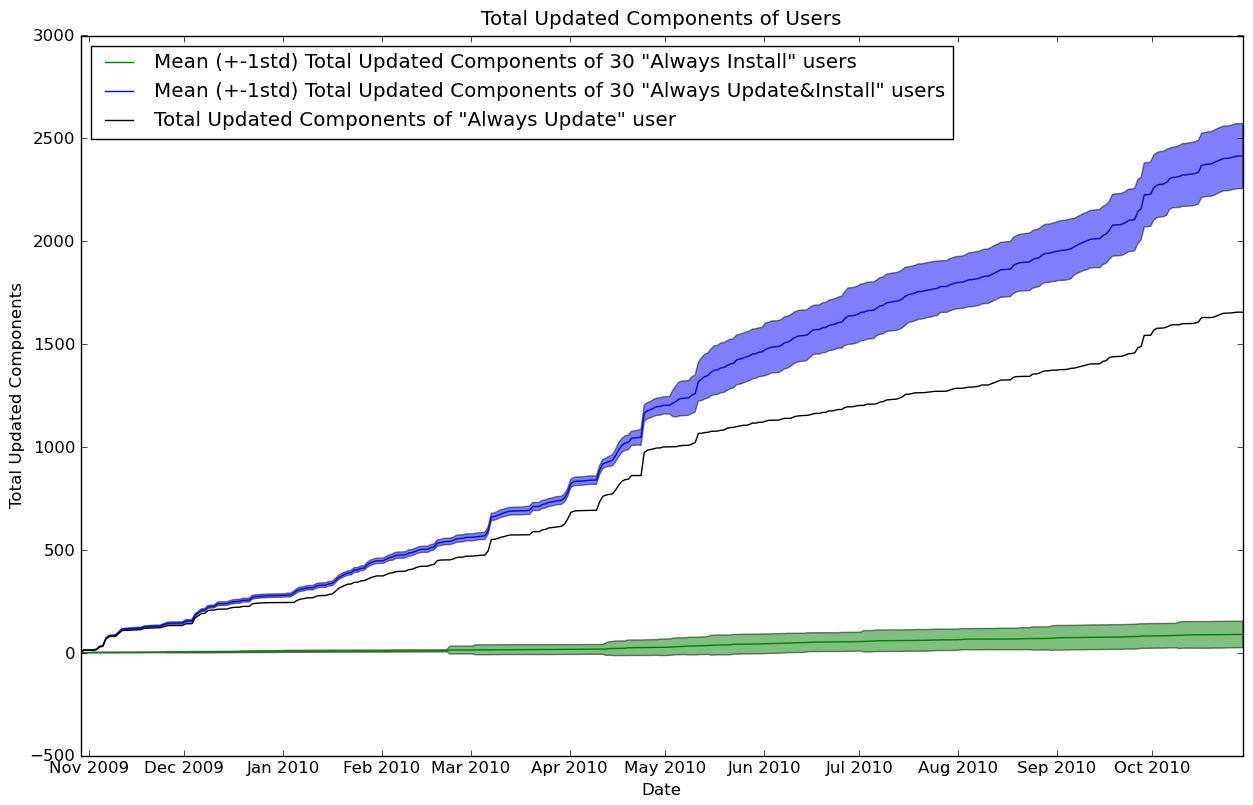
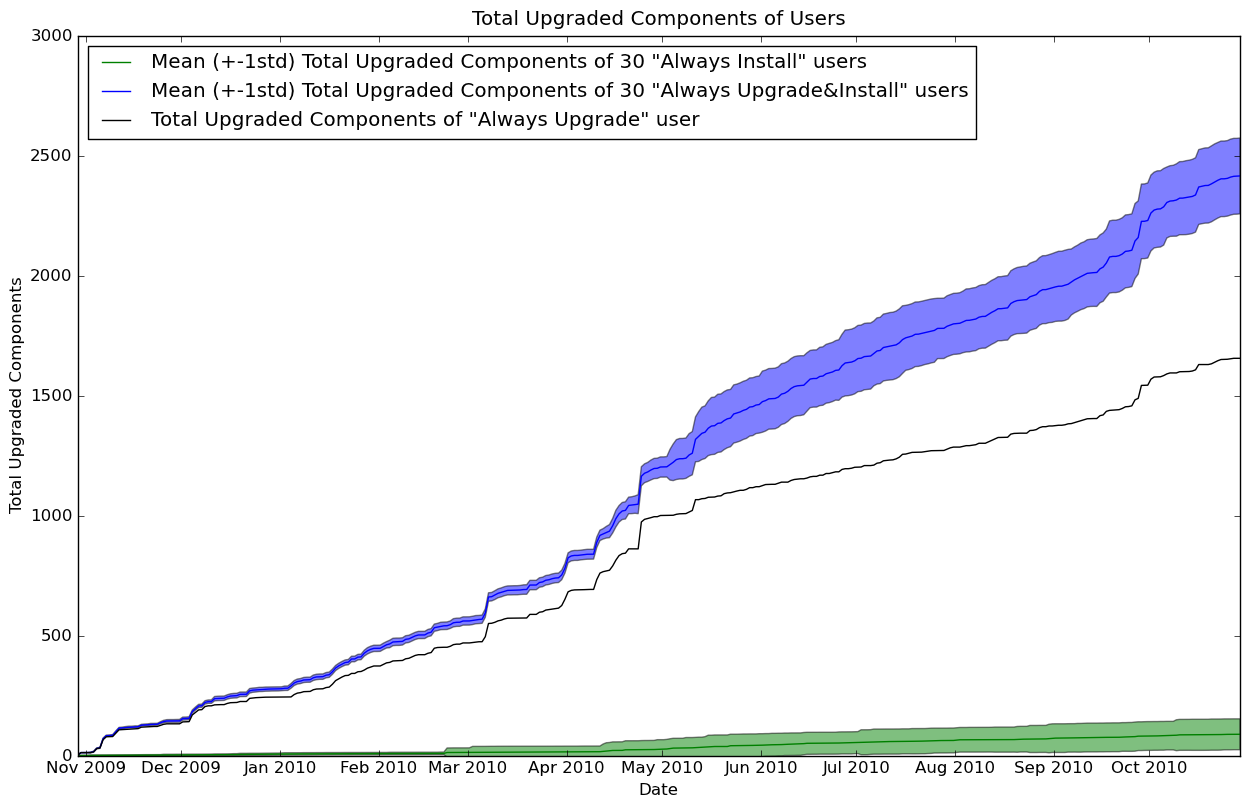
some new stuff

diff --git a/UbuntuSimulationAnalysis/aq6.py b/UbuntuSimulationAnalysis/aq6.py
@@ -32,14 +32,24 @@ phu = filter(lambda x : os.path.basename(x).startswith("progressivehighupdate"),
 plc = filter(lambda x : os.path.basename(x).startswith("progressivelowchange"),files);
 pmc = filter(lambda x : os.path.basename(x).startswith("progressivemediumchange"),files);
 
-norms = [("HI", hi, "#FF0000"), 		("HU", hu, "#00FF00"), 			("MC", mc, "#0000FF"), 			("LC", lc, "#FF00FF")]
-cons = [("Con. Upgrade HI", chi, "#FF0000"), 	("Con. Upgrade HU", chu, "#00FF00"), 	("Con. Upgrade MC", cmc, "#0000FF"), 	("Con. Upgrade LC", clc, "#FF00FF")]
-pros = [("Pro. Upgrade HI", phi, "#FF0000"), 	("Pro. Upgrade HU", phu, "#00FF00"), 	("Pro. Upgrade MC", pmc, "#0000FF"), 	("Pro. Upgrade LC", plc, "#FF00FF")]
+norms = [("HI", hi, "#FF0000"), 			("MC", mc, "#0000FF"), 			("HU", hu, "#00FF00"), 			("LC", lc, "#FF00FF")]
+cons = [("Con. Upgrade HI", chi, "#FF0000"), 		("Con. Upgrade MC", cmc, "#0000FF"), 	("Con. Upgrade HU", chu, "#00FF00"), 	("Con. Upgrade LC", clc, "#FF00FF")]
+pros = [("Pro. Upgrade HI", phi, "#FF0000"), 		("Pro. Upgrade MC", pmc, "#0000FF"),	("Pro. Upgrade HU", phu, "#00FF00"),  	("Pro. Upgrade LC", plc, "#FF00FF")]
 
 his = [("Upgrade HI", hi, "#FF0000"),("Con. Upgrade HI", chi, "#00FF00"),("Pro. Upgrade HI", phi, "#0000FF")]
 hus = [("Upgrade HU", hu, "#FF0000"),("Con. Upgrade HU", chu, "#00FF00"),("Pro. Upgrade HU", phu, "#0000FF")]
 mcs = [("Upgrade MC", mc, "#FF0000"),("Con. Upgrade MC", cmc, "#00FF00"),("Pro. Upgrade MC", pmc, "#0000FF")]
 lcs = [("Upgrade LC", lc, "#FF0000"),("Con. Upgrade LC", clc, "#00FF00"),("Pro. Upgrade LC", plc, "#0000FF")]
+
+
+# High install 	0.42159     0.7638915 
+# Medium change 0.22202257  0.25948714
+# High update 	0.5610895   0.1918915 
+# Low change  	0.18629183  0.08623483
+
+
+
+
 
 def plotuttdpc():
 	pylab.figure(1)
@@ -55,7 +65,7 @@ def plotuttdpc():
 		ivals = map(lambda x : uttdperc(x),pf)
 		imean,istd,imeanpstd,imeanmstd = multimeanstd(ivals)
 		mdiff = numpy.mean(imean)
-		print "Mean uttdpc",name,mdiff
+		print "%s, mean uttdpc %f, final val %f" % (name,mdiff,imean[-1])
 		pylab.plot(pallthedays,imean,color=c,label=("Mean (+-1std) UTTDpC of 50 \"%s\" users" % name))
 
 	pylab.legend(loc="upper left")
@@ -73,7 +83,7 @@ def plotuttdpc():
 		ivals = map(lambda x : uttdperc(x),pf)
 		imean,istd,imeanpstd,imeanmstd = multimeanstd(ivals)
 		mdiff = numpy.mean(imean)
-		print "Mean uttdpc",name,mdiff
+		print "%s, mean uttdpc %f, final val %f" % (name,mdiff,imean[-1])
 		pylab.plot(pallthedays,imean,color=c,label=("Mean (+-1std) UTTDpC of 50 \"%s\" users" % name))
 
 	pylab.legend(loc="upper left")
@@ -92,7 +102,7 @@ def plotuttdpc():
 		ivals = map(lambda x : uttdperc(x),pf)
 		imean,istd,imeanpstd,imeanmstd = multimeanstd(ivals)
 		mdiff = numpy.mean(imean)
-		print "Mean uttdpc",name,mdiff
+		print "%s, mean uttdpc %f, final val %f" % (name,mdiff,imean[-1])
 		pylab.plot(pallthedays,imean,color=c,label=("Mean (+-1std) UTTDpC of 50 \"%s\" users" % name))
 
 	pylab.legend(loc="upper left")
@@ -184,6 +194,7 @@ def plotuttdpc():
 		imean,istd,imeanpstd,imeanmstd = multimeanstd(ivals)
 		mdiff = numpy.mean(imean)
 		print "Mean uttdpc",name,mdiff
+
 		pylab.plot(pallthedays,imean,color=c,label=("Mean (+-1std) UTTDpC of 50 \"%s\" users" % name))
 
 	pylab.legend(loc="upper left")
@@ -208,7 +219,7 @@ def plotchange():
 		imean,istd,imeanpstd,imeanmstd = multimeanstd(ivals)
 		mdiff = numpy.mean(imean)
 		print "Mean Change",name,mdiff
-		print "Final Change, %s (mean : %d , std %d)  7days (mean : %d , std %d)" % (name, imean[-1],istd[-1], imean[-7],istd[-7])
+		print "Final Change, %s (mean : %f , std %f)  7days (mean : %f , std %f)" % (name, imean[-1],istd[-1], imean[-7],istd[-7])
 		pylab.plot(pallthedays,imean,color=c,label=("Mean (+-1std) Total Change of 50 \"%s\" users" % name))
 	
 	#Final Change, HI (mean : 3176 , std 196)  7days (mean : 3136 , std 186)
@@ -221,6 +232,26 @@ def plotchange():
 	#Final Change, Con. Upgrade MC (mean : 2267 , std 153)  7days (mean : 2231 , std 149)
 	#Final Change, Con. Upgrade LC (mean : 1822 , std 96)  7days (mean : 1797 , std 98)
 	
+	#HI = 3136 - 3089 = 47
+	#HU = 2108 - 2091 = 17
+	#MC = 2271 - 2267 = 4
+	#LC = 1885 - 1822 = 63
+	
+	#HI, mean uttdpc 0.364631, final val 0.797584
+	#HU, mean uttdpc 0.316690, final val 0.826326
+	#MC, mean uttdpc 0.338309, final val 0.795248
+	#LC, mean uttdpc 0.307916, final val 0.772981
+	
+	#Con. Upgrade HI, mean uttdpc 0.381826, final val 0.794031
+	#Con. Upgrade HU, mean uttdpc 0.343298, final val 0.816037
+	#Con. Upgrade MC, mean uttdpc 0.351951, final val 0.780787
+	#Con. Upgrade LC, mean uttdpc 0.338918, final val 0.820539
+	
+	#Pro. Upgrade HI, mean uttdpc 0.187131, final val 0.432870
+	#Pro. Upgrade HU, mean uttdpc 0.191693, final val 0.418295
+	#Pro. Upgrade MC, mean uttdpc 0.244713, final val 0.632974
+	#Pro. Upgrade LC, mean uttdpc 0.257741, final val 0.620028
+
 	
 	pylab.legend(loc="upper left")
 	pylab.title("Total Change of Users")
@@ -238,7 +269,7 @@ def plotchange():
 		imean,istd,imeanpstd,imeanmstd = multimeanstd(ivals)
 		mdiff = numpy.mean(imean)
 		print "Mean Change",name,mdiff
-		print "Final Change, %s (mean : %d , std %d)  7days (mean : %d , std %d)" % (name, imean[-1],istd[-1], imean[-7],istd[-7])
+		print "Final Change, %s (mean : %f , std %f)  7days (mean : %f , std %f)" % (name, imean[-1],istd[-1], imean[-7],istd[-7])
 		pylab.plot(pallthedays,imean,color=c,label=("Mean (+-1std) Total Change of 50 \"%s\" users" % name))
 
 	pylab.legend(loc="upper left")
@@ -358,7 +389,7 @@ def plotchange():
 	saveFigure("q6lcuserchange")
 	
 
-#plotuttdpc()	
+plotuttdpc()	
 plotchange()
 
 

diff --git a/UbuntuSimulationAnalysis/aq5a.py b/UbuntuSimulationAnalysis/aq5a.py
@@ -24,10 +24,6 @@ variables = [("Always Upgrade",always,"black"),("Upgrade with 1 week SV",con1wee
 ("Upgrade with 4 weeks SV",con4week,"#FF00FF")]
 
 
-
-
-
-	
 def plotuttdpc():
 	pylab.figure(1)
 	alluttd = numpy.array(uttdperc(always))
@@ -59,16 +55,18 @@ def plotchange():
 	fig = pylab.figure(10)
 	
 	allchange = chtt(always)
-	
+	diffdict = {}
 	for name,pf,c in variables: 
 		cht = chtt(pf)
+		diffdict[name] = cht[-1]
 		print name, numpy.mean(cht), cht[-1]-allchange[-1]
 		pylab.plot(pallthedays,cht,label=name,color=c)	
 	pylab.legend(loc="upper left")
-	print "28 sum" ,allchange[-1] - allchange[-28]
-	print "21 sum", allchange[-1] - allchange[-21]
-	print "14 sum" ,allchange[-1] - allchange[-14]
-	print "7 sum" ,allchange[-1] - allchange[-7]
+	print "7 sum" , diffdict[variables[1][0]] - allchange[-7]
+	print "14 sum", diffdict[variables[2][0]] - allchange[-14]
+	print "21 sum", diffdict[variables[3][0]] - allchange[-21]
+	print "28 sum", diffdict[variables[4][0]] - allchange[-28]
+	
 	saveFigure("q5achange")
 	#This graph shows the total change of using a stable version criteria.
 	#Conservative Upgrade mean 847.267759563 final value 1655.0
@@ -77,7 +75,11 @@ def plotchange():
 	#Conservative Upgrade SV 3 week 733.357923497 1536.0
 	#Conservative Upgrade SV 4 week 699.601092896 1494.0
 	
-	
+	#7 sum -28.0
+	#14 sum -48.0
+	#21 sum -58.0
+	#28 sum -83.0
+
 	#The difference of this change for the stable version once a week is that about 33.
 	#To show that the stable user criteria is doing more than just delaying Upgrades by a week, and not effecting change, we can compare this reduction to the average weekly 
 	#The average change in the final week was only 5 components. This means that over the year 33-5, 28 instances occured where a component was not unessesarily installed.

diff --git a/UbuntuSimulationAnalysis/aq4a.py b/UbuntuSimulationAnalysis/aq4a.py
@@ -53,7 +53,7 @@ def plotuttdpc():
 	pylab.xlabel("Date")
 	pylab.ylabel("Uptodate Distance per Component")
 	pylab.title("Uptodate Distance per Component of Users")
-	
+	pylab.ylim([0,1])
 	saveFigure("q4auttdperc")
 	
 	#As can be seen from this figure the updating with the modified more prorgessive criteria allows the component system to stay more up to date.
